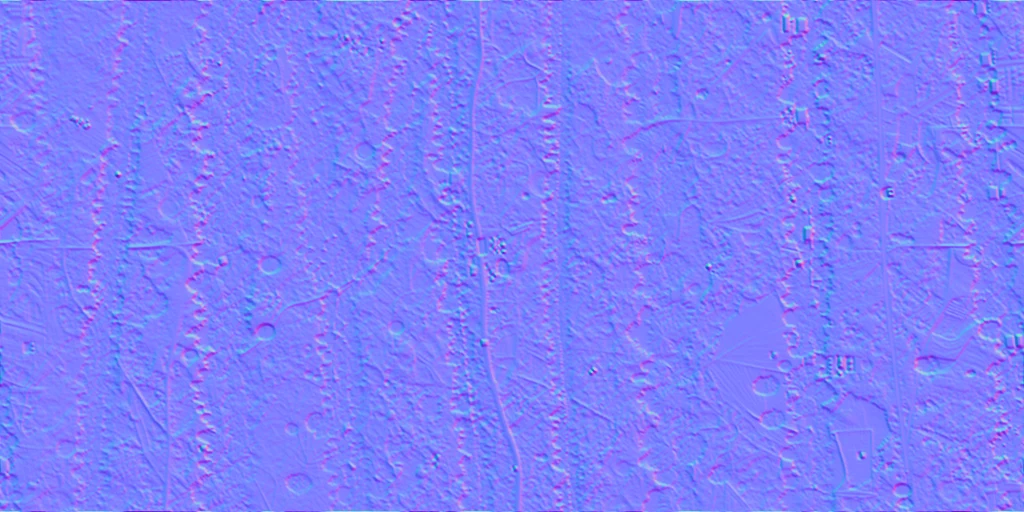
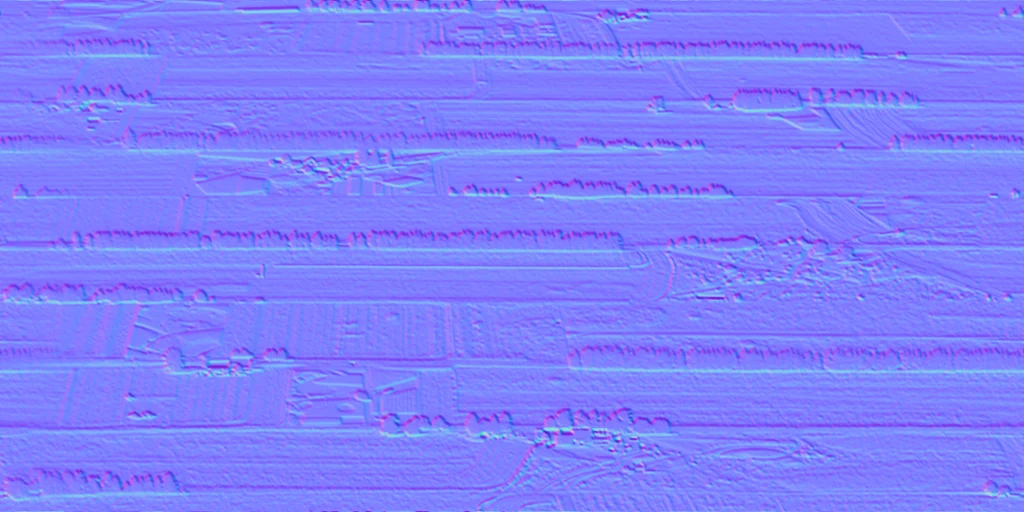
Star Forge art: ring world 3 painted again with flat bands along the ring (no more barcode look)

diff --git a/scripts/trader-forge-art-gen.py b/scripts/trader-forge-art-gen.py
@@ -210,8 +210,8 @@ PLANET_LOOKS: dict[str, list[str]] = {
         # Remade 4 Nov: "ring world" made the model draw Earth's map or a ring, so only the ground is described.
         'an alien landscape of long thin blue lakes and green islands with thin straight stripes of farmland between them, all running left to right in even stripes from edge to edge',
         'the inside surface of a giant ring world of grey-green mountain ranges and forest valleys with glinting rivers, laid out in straight bands',
-        # Repainted again 4 Nov: the bands came out upright; the ring band needs them lying flat.
-        'an alien landscape in long flat horizontal bands, one above the other: golden plains and dark green forests, with neat grids of tiny villages, every band runs straight across from the left edge to the right edge',
+        # Repainted a third time 4 Nov: "bands" came out upright or not at all; this copies ring world 1's wording, which worked.
+        'an alien landscape of long thin golden wheat fields and long thin dark green forest strips with thin straight rivers between them, all running left to right in even stripes from edge to edge, with tiny villages',
     ],
 }
 for kind, looks in PLANET_LOOKS.items():

diff --git a/docs/TRADER-SYSTEM-ART-PLAN.md b/docs/TRADER-SYSTEM-ART-PLAN.md
@@ -160,7 +160,7 @@ If it all goes wrong: nothing is lost. The PNGs stay in `~/dragon-art-inbox/trad
 - **The ring world, cube and donut maps** are ordinary flat maps (the strange shape is the viewer's job). The eyeball map has the sunlit ocean or desert in the middle and ice at the left and right edges, so it joins up when wrapped; the viewer should put the middle of the map under the sun.
 
 - **First-look remakes (4 Nov).** 20 of batch 1 were remade once: suns and gas giants that came out as a ball drawn inside the map (their prompts now say "close-up of ..." and never name a star or a planet), cloud maps with grey or tinted backgrounds (the tidy script now treats the darkest fifth of a cloud map as black), and a few planets with frames, a stamp-like pattern or a globe inside.
-- **14 weak planet maps repainted at home (4 Nov evening), and committed.** `donut-1` and `donut-3` had a donut or crater drawn inside, `ringworld-1` was Earth's map, `ringworld-3` had a ring inside, all four `eyeball` maps drew a real eye, `shattered-0`, `-1`, `-3`, `jungle-0` and `ocean-3` were Earth's continents and `ice-2` had black bars. Their prompts now describe only the ground, spread evenly (the eyeball as upright stripes: ice, land, sunlit middle, land, ice) and never name the strange shape. All 14 came out clean on the first repaint except `eyeball-3` (stripes lay sideways), `ocean-3` (one long island) and `ringworld-3` (stripes upright, not along the band). Those three were painted once more: `eyeball-3` came right; the second `ocean-3` (a clump of islands) and `ringworld-3` (white bars, no bands) were worse, so the first repaints are used (all versions are in the inbox's `planets/_old/`). `ringworld-3`'s upright stripes look a bit like a barcode along the band; repaint it later if that bothers anyone. `HD_PLANETS` for shattered moved from (0, 2) to (0, 1): the new blue-crack map beats the old icy one. The viewer preview has two example systems, `Repainted A` and `Repainted B`, that show all 14.
+- **14 weak planet maps repainted at home (4 Nov evening), and committed.** `donut-1` and `donut-3` had a donut or crater drawn inside, `ringworld-1` was Earth's map, `ringworld-3` had a ring inside, all four `eyeball` maps drew a real eye, `shattered-0`, `-1`, `-3`, `jungle-0` and `ocean-3` were Earth's continents and `ice-2` had black bars. Their prompts now describe only the ground, spread evenly (the eyeball as upright stripes: ice, land, sunlit middle, land, ice) and never name the strange shape. All 14 came out clean on the first repaint except `eyeball-3` (stripes lay sideways), `ocean-3` (one long island) and `ringworld-3` (stripes upright, not along the band). Those three were painted once more: `eyeball-3` came right; the second `ocean-3` (a clump of islands) and `ringworld-3` (white bars, no bands) were worse, so the first repaints are used (all versions are in the inbox's `planets/_old/`). `ringworld-3`'s upright stripes looked like a barcode along the band, so James asked for it again: it was reworded to copy `ringworld-1`'s wording (long thin strips with rivers between them, running left to right), painted twice, and the second try (flat bands of fields and tree lines) is used. `HD_PLANETS` for shattered moved from (0, 2) to (0, 1): the new blue-crack map beats the old icy one. The viewer preview has two example systems, `Repainted A` and `Repainted B`, that show all 14.
 - **Big copies only for the best 2 (4 Nov).** James chose to keep `-hd` planet maps only for the best 2 surfaces of each kind (`HD_PLANETS` in `scripts/trader-forge-art.py`). That took the paintings from 110 MB to 71 MB (52 MB of it `-hd`). Clouds, suns, moons and skies keep all their `-hd` copies; they are small.
 - **Skies repainted (4 Nov).** Skies 0, 2, 4, 5, 6 and 7 were repainted as night sky photos with a faint band; the old ones were one giant galaxy that swamped the viewer. Skies 1 and 3 are the first paintings.
 

diff --git a/docs/prompts/trader-forge-pickup.md b/docs/prompts/trader-forge-pickup.md
@@ -24,4 +24,4 @@ The art is finished. Ask James (on a clickable card) which of these comes next:
 2. **The New Season picture upload** to the profile album.
 3. **Achievements and points.**
 4. **More silly pieces** (James wants as many as possible; paint them on the gaming PC, never in code).
-5. Small, only if James asks: repaint `ringworld-3` (its stripes are upright, so the band looks a bit like a barcode; the prompt asks for flat bands but the model ignored it twice), or a closer camera for the gallery pictures.
+5. Small, only if James asks: a closer camera for the gallery pictures. (`ringworld-3` was painted a third time on 4 Nov evening and now has flat bands.)
